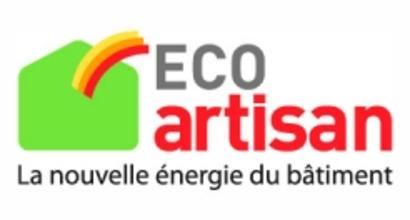
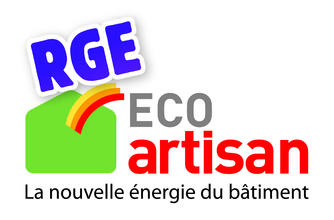
new attributes

diff --git a/app/assets/javascripts/front/shared.js b/app/assets/javascripts/front/shared.js
@@ -8,6 +8,10 @@ $(document).ready(function() {
   $('#popoverGmh').popover();
   $('#popoverFfb').popover();
   $('#popoverEpv').popover();
+  $('#popoverRge_eco_artisan').popover();
+  $('#popoverCapeb').popover();
+  $('#popoverMof').popover();
+
 });
 
 $(document).on('click', '.dropdown-menu', function(e) {

diff --git a/app/assets/stylesheets/components/_card_users.scss b/app/assets/stylesheets/components/_card_users.scss
@@ -201,8 +201,8 @@ span {
   align-content: stretch;
   margin-top:20px;
   img {
-    width: 35px;
-    height: 35px;
+    width: 50px;
+    height: 50px;
     border-radius: 3px !important;
     margin-right: 0px !important;
   }

diff --git a/app/admin/user.rb b/app/admin/user.rb
@@ -75,6 +75,7 @@ ActiveAdmin.register User do
       f.input :qualibat
       f.input :mh
       f.input :epv
+      f.input :mof
     end
     f.inputs "Admin" do
       f.input :admin
@@ -82,11 +83,71 @@ ActiveAdmin.register User do
     f.actions
   end
 
-  permit_params :company, :first_name, :last_name, :position, :mobile_phone, :office_phone, :email, :address, :description, :radius, :photo_company_logo, :photo_presentation, :construction, :renovation, :entretien, :charpente, :couverture, :ouverture, :terrasse, :plomberie, :architecte, :isolation, :specialite1, :specialite2, :specialite3, :maison, :chateau, :immeuble, :mh, :qualibat, :rge, :couvreur, :charpentier, :cv, :photo, :zip_code, :city, :locaux_industriels, :facebook, :ffb, :epv, :rge_eco_artisan, :capeb, :website, :twitter, :linkedin, :press_link_1, :press_link_title_1, :press_link_2, :press_link_title_2, :press_link_3, :press_link_title_3, :batiment_agricole
+  controller do
+    def user_params
+      params.require(:user).permit(
+        :company,
+        :first_name,
+        :last_name,
+        :position,
+        :mobile_phone,
+        :office_phone,
+        :email,
+        :address,
+        :description,
+        :radius,
+        :photo_company_logo,
+        :photo_presentation,
+        :construction,
+        :renovation,
+        :entretien,
+        :charpente,
+        :couverture,
+        :ouverture,
+        :terrasse,
+        :plomberie,
+        :architecte,
+        :isolation,
+        :specialite1,
+        :specialite2,
+        :specialite3,
+        :maison,
+        :chateau,
+        :immeuble,
+        :batiment_agricole,
+        :mh,
+        :qualibat,
+        :rge,
+        :couvreur,
+        :charpentier,
+        :cv,
+        :photo,
+        :zip_code,
+        :city,
+        :locaux_industriels,
+        :facebook,
+        :ffb,
+        :epv,
+        :rge_eco_artisan,
+        :capeb,
+        :mof,
+        :website,
+        :twitter,
+        :linkedin,
+        :press_link_1,
+        :press_link_title_1,
+        :press_link_2,
+        :press_link_title_2,
+        :press_link_3,
+        :press_link_title_3
+      )
+    end
+  end
 
   controller do
     def find_resource
       scoped_collection.friendly.find(params[:id])
     end
   end
+
 end

diff --git a/db/schema.rb b/db/schema.rb
@@ -10,7 +10,7 @@
 #
 # It's strongly recommended that you check this file into your version control system.
 
-ActiveRecord::Schema.define(version: 20171025074731) do
+ActiveRecord::Schema.define(version: 20171025133323) do
 
   # These are extensions that must be enabled in order to support this database
   enable_extension "plpgsql"
@@ -91,10 +91,10 @@ ActiveRecord::Schema.define(version: 20171025074731) do
     t.boolean  "ouverture",           default: false, null: false
     t.boolean  "terrasse",            default: false, null: false
     t.boolean  "plomberie",           default: false, null: false
-    t.boolean  "locaux_industriels"
-    t.boolean  "architecte"
-    t.boolean  "isolation"
-    t.boolean  "batiment_agricole"
+    t.boolean  "locaux_industriels",  default: false, null: false
+    t.boolean  "architecte",          default: false, null: false
+    t.boolean  "isolation",           default: false, null: false
+    t.boolean  "batiment_agricole",   default: false, null: false
   end
 
   create_table "friendly_id_slugs", force: :cascade do |t|
@@ -201,6 +201,7 @@ ActiveRecord::Schema.define(version: 20171025074731) do
     t.boolean  "batiment_agricole"
     t.boolean  "capeb"
     t.boolean  "rge_eco_artisan"
+    t.boolean  "mof"
     t.index ["email"], name: "index_users_on_email", unique: true, using: :btree
     t.index ["reset_password_token"], name: "index_users_on_reset_password_token", unique: true, using: :btree
     t.index ["slug"], name: "index_users_on_slug", unique: true, using: :btree

diff --git a/app/controllers/users_controller.rb b/app/controllers/users_controller.rb
@@ -73,7 +73,7 @@ class UsersController < ApplicationController
     @projects = Project.where(user_id: @user)
     @articles = Article.where(user_id: @user)
     @label = []
-    if @user.rge == true || @user.qualibat == true || @user.ffb == true || @user.mh == true
+    if @user.rge == true || @user.qualibat == true || @user.ffb == true || @user.mh == true || @user.epv == true || @user.capeb == true || @user.rge_eco_artisan == true || @user.mof == true
       @label = true
     end
     @hash = Gmaps4rails.build_markers(@user) do |user, marker|
@@ -156,6 +156,7 @@ class UsersController < ApplicationController
       :epv,
       :capeb,
       :rge_eco_artisan,
+      :mof,
       :couvreur,
       :charpentier,
       :cv,
@@ -183,9 +184,7 @@ class UsersController < ApplicationController
   def client_params
     return {} unless params[:client]
     params.require(:client).permit(
-      # Lieu
       :address,
-      # Travaux
       :couverture,
       :ouverture,
       :charpente,
@@ -193,12 +192,11 @@ class UsersController < ApplicationController
       :plomberie,
       :isolation,
       :architecte,
-      # Type de batiment
       :maison,
       :chateau,
       :immeuble,
       :locaux_industriels,
-      :batiment_agricole,
+      :batiment_agricole
     )
   end
 end

diff --git a/app/controllers/application_controller.rb b/app/controllers/application_controller.rb
@@ -12,6 +12,7 @@ class ApplicationController < ActionController::Base
     devise_parameter_sanitizer.permit(:sign_up, keys: [:first_name, :last_name, :status, :company])
 
     # For additional in app/views/devise/registrations/edit.html.erb
-    devise_parameter_sanitizer.permit(:account_update, keys: [:first_name, :last_name, :company, :position, :office_phone, :mobile_phone, :address, :description, :radius, :photo_company_logo, :photo_presentation, :construction, :renovation, :entretien, :charpente, :couverture, :ouverture, :terrasse, :plomberie, :maison, :chateau, :immeuble, :zip_code, :city, :mh, :rge, :qualibat])
+    devise_parameter_sanitizer.permit(
+      :account_update, keys: [:first_name, :last_name, :company, :position, :office_phone, :mobile_phone, :address, :description, :radius, :photo_company_logo, :photo_presentation, :construction, :renovation, :entretien, :charpente, :couverture, :ouverture, :terrasse, :plomberie, :maison, :chateau, :immeuble, :zip_code, :city, :mh, :rge, :qualibat])
   end
 end

diff --git a/app/controllers/clients_controller.rb b/app/controllers/clients_controller.rb
@@ -82,7 +82,29 @@
   private
 
   def client_params
-    params.require(:client).permit(:first_name, :last_name, :phone_number, :email, :address, :construction, :renovation, :entretien, :charpente, :couverture, :ouverture, :terrasse, :plomberie, :architecte, :inovation, :maison, :chateau, :immeuble, :monument_historique, :message, :locaux_industriels, :batiment_agricole)
+    params.require(:client).permit(
+      :address,
+      :first_name,
+      :last_name,
+      :phone_number,
+      :email,
+      :message,
+      :construction,
+      :renovation,
+      :entretien,
+      :charpente,
+      :couverture,
+      :ouverture,
+      :terrasse,
+      :plomberie,
+      :architecte,
+      :maison,
+      :chateau,
+      :immeuble,
+      :monument_historique,
+      :locaux_industriels,
+      :batiment_agricole
+    )
   end
 
   def set_client

diff --git a/db/migrate/20171025133323_add_mof_to_users.rb b/db/migrate/20171025133323_add_mof_to_users.rb
@@ -1,0 +1,5 @@
+class AddMofToUsers < ActiveRecord::Migration[5.0]
+  def change
+    add_column :users, :mof, :boolean
+  end
+end
